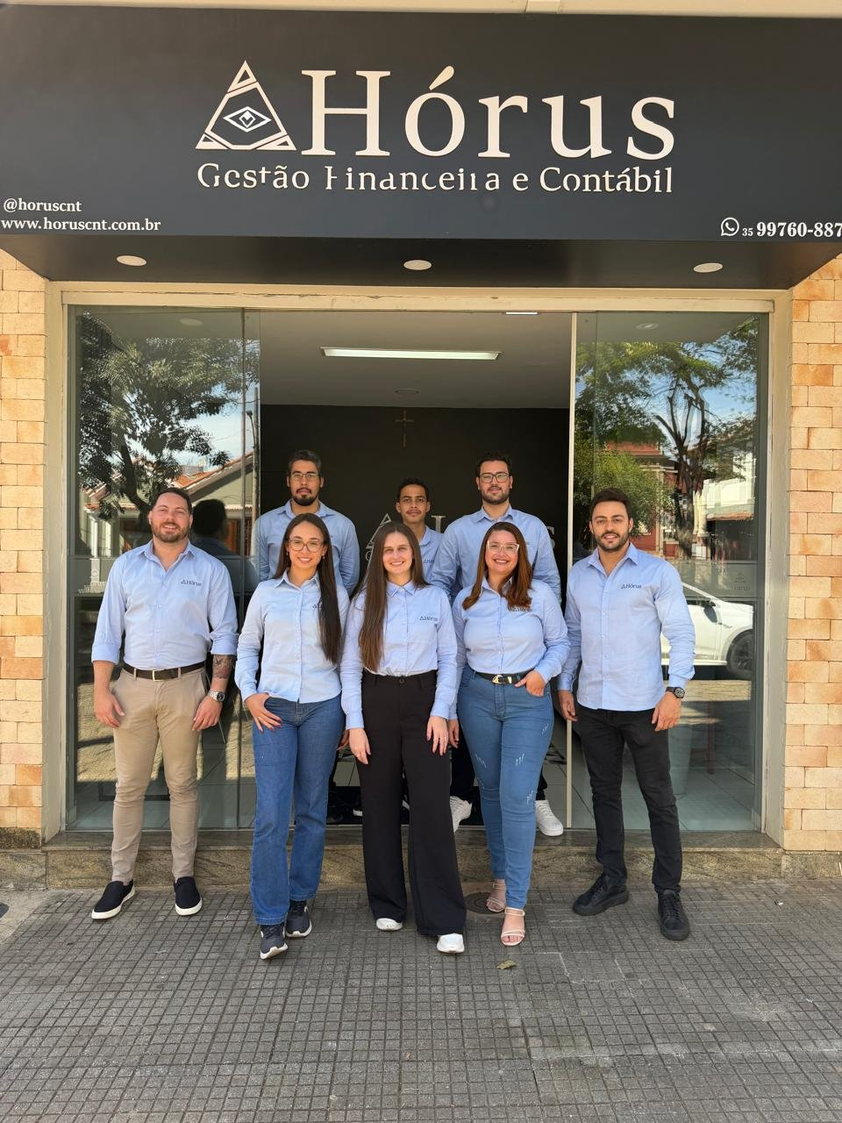
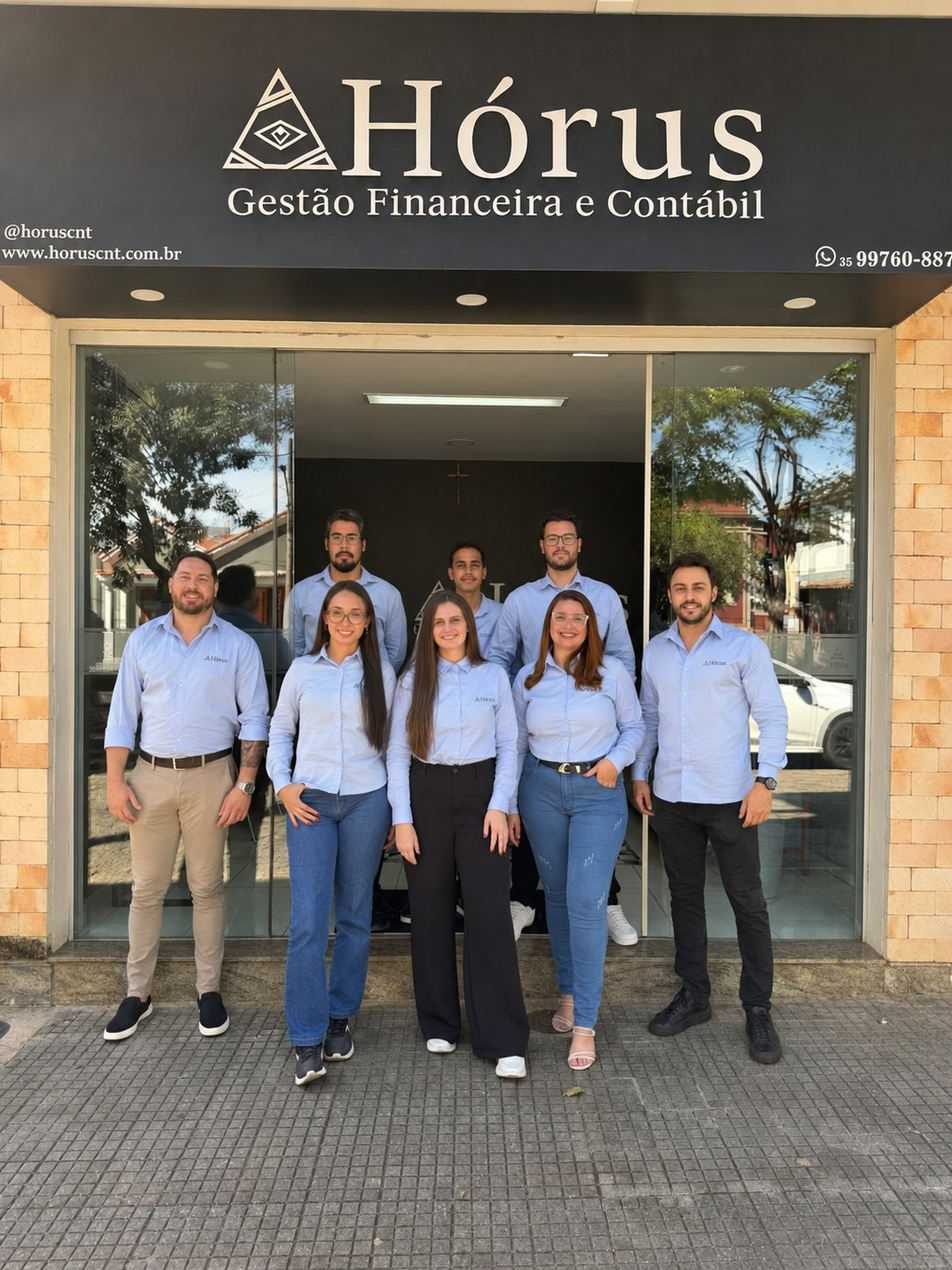
feat: usa a nova foto da equipe na fachada e fica só com três imagens
Troca a foto de destaque do time em frente ao letreiro e remove as duas
fachadas repetidas, deixando a nova foto com as duas do escritório.

diff --git a/HORUS.html b/HORUS.html
@@ -398,55 +398,33 @@
             </div>
 
             <div class="grid grid-cols-1 md:grid-cols-12 gap-4 md:gap-5">
-                <figure class="equipe-photo md:col-span-5 aspect-[3/4] md:aspect-auto md:h-full">
+                <figure class="equipe-photo md:col-span-7 aspect-[3/4]">
                     <button type="button" data-equipe-src="/public/equipe/fachada-01.webp" data-equipe-alt="Equipe da Hórus Gestão Financeira e Contábil posada na entrada do escritório, sob a placa da empresa." aria-label="Equipe da Hórus Gestão Financeira e Contábil posada na entrada do escritório, sob a placa da empresa.">
                         <picture>
-                            <source type="image/webp" srcset="/public/equipe/fachada-01-sm.webp 640w, /public/equipe/fachada-01.webp 960w" sizes="(min-width: 768px) 40vw, 100vw">
-                            <source type="image/jpeg" srcset="/public/equipe/fachada-01-sm.jpg 640w, /public/equipe/fachada-01.jpg 960w" sizes="(min-width: 768px) 40vw, 100vw">
-                            <img src="/public/equipe/fachada-01-sm.jpg" alt="Equipe da Hórus Gestão Financeira e Contábil posada na entrada do escritório, sob a placa da empresa." width="960" height="1280" loading="lazy" decoding="async">
+                            <source type="image/webp" srcset="/public/equipe/fachada-01-sm.webp 640w, /public/equipe/fachada-01.webp 1086w" sizes="(min-width: 768px) 58vw, 100vw">
+                            <source type="image/jpeg" srcset="/public/equipe/fachada-01-sm.jpg 640w, /public/equipe/fachada-01.jpg 1086w" sizes="(min-width: 768px) 58vw, 100vw">
+                            <img src="/public/equipe/fachada-01-sm.jpg" alt="Equipe da Hórus Gestão Financeira e Contábil posada na entrada do escritório, sob a placa da empresa." width="1086" height="1448" loading="lazy" decoding="async">
                         </picture>
                     </button>
                 </figure>
-                <div class="md:col-span-7 flex flex-col gap-4 md:gap-5">
-                    <figure class="equipe-photo aspect-[16/10] md:aspect-[16/9]">
-                        <button type="button" data-equipe-src="/public/equipe/escritorio-02.webp" data-equipe-alt="Equipe da Hórus trabalhando lado a lado no escritório, em mesas com computadores e o logo da empresa ao fundo." aria-label="Equipe da Hórus trabalhando lado a lado no escritório, em mesas com computadores e o logo da empresa ao fundo.">
+                <figure class="equipe-photo md:col-span-5 aspect-[3/4] md:aspect-auto md:h-full">
+                    <button type="button" data-equipe-src="/public/equipe/escritorio-01.webp" data-equipe-alt="Equipe da Hórus reunida em torno da mesa do escritório, com computadores e o logo da empresa na parede." aria-label="Equipe da Hórus reunida em torno da mesa do escritório, com computadores e o logo da empresa na parede.">
                         <picture>
-                            <source type="image/webp" srcset="/public/equipe/escritorio-02-sm.webp 640w, /public/equipe/escritorio-02.webp 1280w" sizes="(min-width: 768px) 55vw, 100vw">
-                            <source type="image/jpeg" srcset="/public/equipe/escritorio-02-sm.jpg 640w, /public/equipe/escritorio-02.jpg 1280w" sizes="(min-width: 768px) 55vw, 100vw">
-                            <img src="/public/equipe/escritorio-02-sm.jpg" alt="Equipe da Hórus trabalhando lado a lado no escritório, em mesas com computadores e o logo da empresa ao fundo." width="1280" height="853" loading="lazy" decoding="async">
-                        </picture>
-                    </button>
-                    </figure>
-                    <div class="grid grid-cols-3 gap-4 md:gap-5">
-                        <figure class="equipe-photo aspect-[3/4]">
-                            <button type="button" data-equipe-src="/public/equipe/escritorio-01.webp" data-equipe-alt="Equipe da Hórus reunida em torno da mesa do escritório, com computadores e o logo da empresa na parede." aria-label="Equipe da Hórus reunida em torno da mesa do escritório, com computadores e o logo da empresa na parede.">
-                        <picture>
-                            <source type="image/webp" srcset="/public/equipe/escritorio-01-sm.webp 640w, /public/equipe/escritorio-01.webp 853w" sizes="(min-width: 768px) 18vw, 33vw">
-                            <source type="image/jpeg" srcset="/public/equipe/escritorio-01-sm.jpg 640w, /public/equipe/escritorio-01.jpg 853w" sizes="(min-width: 768px) 18vw, 33vw">
+                            <source type="image/webp" srcset="/public/equipe/escritorio-01-sm.webp 640w, /public/equipe/escritorio-01.webp 853w" sizes="(min-width: 768px) 40vw, 100vw">
+                            <source type="image/jpeg" srcset="/public/equipe/escritorio-01-sm.jpg 640w, /public/equipe/escritorio-01.jpg 853w" sizes="(min-width: 768px) 40vw, 100vw">
                             <img src="/public/equipe/escritorio-01-sm.jpg" alt="Equipe da Hórus reunida em torno da mesa do escritório, com computadores e o logo da empresa na parede." width="853" height="1280" loading="lazy" decoding="async">
                         </picture>
                     </button>
-                        </figure>
-                        <figure class="equipe-photo aspect-[3/4]">
-                            <button type="button" data-equipe-src="/public/equipe/fachada-02.webp" data-equipe-alt="Equipe da Hórus reunida na porta de vidro do escritório, com a fachada da empresa ao fundo." aria-label="Equipe da Hórus reunida na porta de vidro do escritório, com a fachada da empresa ao fundo.">
+                </figure>
+                <figure class="equipe-photo md:col-span-12 aspect-[16/10] md:aspect-[21/9]">
+                    <button type="button" data-equipe-src="/public/equipe/escritorio-02.webp" data-equipe-alt="Equipe da Hórus trabalhando lado a lado no escritório, em mesas com computadores e o logo da empresa ao fundo." aria-label="Equipe da Hórus trabalhando lado a lado no escritório, em mesas com computadores e o logo da empresa ao fundo.">
                         <picture>
-                            <source type="image/webp" srcset="/public/equipe/fachada-02-sm.webp 640w, /public/equipe/fachada-02.webp 960w" sizes="(min-width: 768px) 18vw, 33vw">
-                            <source type="image/jpeg" srcset="/public/equipe/fachada-02-sm.jpg 640w, /public/equipe/fachada-02.jpg 960w" sizes="(min-width: 768px) 18vw, 33vw">
-                            <img src="/public/equipe/fachada-02-sm.jpg" alt="Equipe da Hórus reunida na porta de vidro do escritório, com a fachada da empresa ao fundo." width="960" height="1280" loading="lazy" decoding="async">
+                            <source type="image/webp" srcset="/public/equipe/escritorio-02-sm.webp 640w, /public/equipe/escritorio-02.webp 1280w" sizes="100vw">
+                            <source type="image/jpeg" srcset="/public/equipe/escritorio-02-sm.jpg 640w, /public/equipe/escritorio-02.jpg 1280w" sizes="100vw">
+                            <img src="/public/equipe/escritorio-02-sm.jpg" alt="Equipe da Hórus trabalhando lado a lado no escritório, em mesas com computadores e o logo da empresa ao fundo." width="1280" height="853" loading="lazy" decoding="async">
                         </picture>
                     </button>
-                        </figure>
-                        <figure class="equipe-photo aspect-[3/4]">
-                            <button type="button" data-equipe-src="/public/equipe/fachada-03.webp" data-equipe-alt="Time da Hórus na calçada, em frente à fachada do escritório." aria-label="Time da Hórus na calçada, em frente à fachada do escritório.">
-                        <picture>
-                            <source type="image/webp" srcset="/public/equipe/fachada-03-sm.webp 640w, /public/equipe/fachada-03.webp 960w" sizes="(min-width: 768px) 18vw, 33vw">
-                            <source type="image/jpeg" srcset="/public/equipe/fachada-03-sm.jpg 640w, /public/equipe/fachada-03.jpg 960w" sizes="(min-width: 768px) 18vw, 33vw">
-                            <img src="/public/equipe/fachada-03-sm.jpg" alt="Time da Hórus na calçada, em frente à fachada do escritório." width="960" height="1280" loading="lazy" decoding="async">
-                        </picture>
-                    </button>
-                        </figure>
-                    </div>
-                </div>
+                </figure>
             </div>
         </div>
     </section>

diff --git a/index.html b/index.html
@@ -398,55 +398,33 @@
             </div>
 
             <div class="grid grid-cols-1 md:grid-cols-12 gap-4 md:gap-5">
-                <figure class="equipe-photo md:col-span-5 aspect-[3/4] md:aspect-auto md:h-full">
+                <figure class="equipe-photo md:col-span-7 aspect-[3/4]">
                     <button type="button" data-equipe-src="/public/equipe/fachada-01.webp" data-equipe-alt="Equipe da Hórus Gestão Financeira e Contábil posada na entrada do escritório, sob a placa da empresa." aria-label="Equipe da Hórus Gestão Financeira e Contábil posada na entrada do escritório, sob a placa da empresa.">
                         <picture>
-                            <source type="image/webp" srcset="/public/equipe/fachada-01-sm.webp 640w, /public/equipe/fachada-01.webp 960w" sizes="(min-width: 768px) 40vw, 100vw">
-                            <source type="image/jpeg" srcset="/public/equipe/fachada-01-sm.jpg 640w, /public/equipe/fachada-01.jpg 960w" sizes="(min-width: 768px) 40vw, 100vw">
-                            <img src="/public/equipe/fachada-01-sm.jpg" alt="Equipe da Hórus Gestão Financeira e Contábil posada na entrada do escritório, sob a placa da empresa." width="960" height="1280" loading="lazy" decoding="async">
+                            <source type="image/webp" srcset="/public/equipe/fachada-01-sm.webp 640w, /public/equipe/fachada-01.webp 1086w" sizes="(min-width: 768px) 58vw, 100vw">
+                            <source type="image/jpeg" srcset="/public/equipe/fachada-01-sm.jpg 640w, /public/equipe/fachada-01.jpg 1086w" sizes="(min-width: 768px) 58vw, 100vw">
+                            <img src="/public/equipe/fachada-01-sm.jpg" alt="Equipe da Hórus Gestão Financeira e Contábil posada na entrada do escritório, sob a placa da empresa." width="1086" height="1448" loading="lazy" decoding="async">
                         </picture>
                     </button>
                 </figure>
-                <div class="md:col-span-7 flex flex-col gap-4 md:gap-5">
-                    <figure class="equipe-photo aspect-[16/10] md:aspect-[16/9]">
-                        <button type="button" data-equipe-src="/public/equipe/escritorio-02.webp" data-equipe-alt="Equipe da Hórus trabalhando lado a lado no escritório, em mesas com computadores e o logo da empresa ao fundo." aria-label="Equipe da Hórus trabalhando lado a lado no escritório, em mesas com computadores e o logo da empresa ao fundo.">
+                <figure class="equipe-photo md:col-span-5 aspect-[3/4] md:aspect-auto md:h-full">
+                    <button type="button" data-equipe-src="/public/equipe/escritorio-01.webp" data-equipe-alt="Equipe da Hórus reunida em torno da mesa do escritório, com computadores e o logo da empresa na parede." aria-label="Equipe da Hórus reunida em torno da mesa do escritório, com computadores e o logo da empresa na parede.">
                         <picture>
-                            <source type="image/webp" srcset="/public/equipe/escritorio-02-sm.webp 640w, /public/equipe/escritorio-02.webp 1280w" sizes="(min-width: 768px) 55vw, 100vw">
-                            <source type="image/jpeg" srcset="/public/equipe/escritorio-02-sm.jpg 640w, /public/equipe/escritorio-02.jpg 1280w" sizes="(min-width: 768px) 55vw, 100vw">
-                            <img src="/public/equipe/escritorio-02-sm.jpg" alt="Equipe da Hórus trabalhando lado a lado no escritório, em mesas com computadores e o logo da empresa ao fundo." width="1280" height="853" loading="lazy" decoding="async">
-                        </picture>
-                    </button>
-                    </figure>
-                    <div class="grid grid-cols-3 gap-4 md:gap-5">
-                        <figure class="equipe-photo aspect-[3/4]">
-                            <button type="button" data-equipe-src="/public/equipe/escritorio-01.webp" data-equipe-alt="Equipe da Hórus reunida em torno da mesa do escritório, com computadores e o logo da empresa na parede." aria-label="Equipe da Hórus reunida em torno da mesa do escritório, com computadores e o logo da empresa na parede.">
-                        <picture>
-                            <source type="image/webp" srcset="/public/equipe/escritorio-01-sm.webp 640w, /public/equipe/escritorio-01.webp 853w" sizes="(min-width: 768px) 18vw, 33vw">
-                            <source type="image/jpeg" srcset="/public/equipe/escritorio-01-sm.jpg 640w, /public/equipe/escritorio-01.jpg 853w" sizes="(min-width: 768px) 18vw, 33vw">
+                            <source type="image/webp" srcset="/public/equipe/escritorio-01-sm.webp 640w, /public/equipe/escritorio-01.webp 853w" sizes="(min-width: 768px) 40vw, 100vw">
+                            <source type="image/jpeg" srcset="/public/equipe/escritorio-01-sm.jpg 640w, /public/equipe/escritorio-01.jpg 853w" sizes="(min-width: 768px) 40vw, 100vw">
                             <img src="/public/equipe/escritorio-01-sm.jpg" alt="Equipe da Hórus reunida em torno da mesa do escritório, com computadores e o logo da empresa na parede." width="853" height="1280" loading="lazy" decoding="async">
                         </picture>
                     </button>
-                        </figure>
-                        <figure class="equipe-photo aspect-[3/4]">
-                            <button type="button" data-equipe-src="/public/equipe/fachada-02.webp" data-equipe-alt="Equipe da Hórus reunida na porta de vidro do escritório, com a fachada da empresa ao fundo." aria-label="Equipe da Hórus reunida na porta de vidro do escritório, com a fachada da empresa ao fundo.">
+                </figure>
+                <figure class="equipe-photo md:col-span-12 aspect-[16/10] md:aspect-[21/9]">
+                    <button type="button" data-equipe-src="/public/equipe/escritorio-02.webp" data-equipe-alt="Equipe da Hórus trabalhando lado a lado no escritório, em mesas com computadores e o logo da empresa ao fundo." aria-label="Equipe da Hórus trabalhando lado a lado no escritório, em mesas com computadores e o logo da empresa ao fundo.">
                         <picture>
-                            <source type="image/webp" srcset="/public/equipe/fachada-02-sm.webp 640w, /public/equipe/fachada-02.webp 960w" sizes="(min-width: 768px) 18vw, 33vw">
-                            <source type="image/jpeg" srcset="/public/equipe/fachada-02-sm.jpg 640w, /public/equipe/fachada-02.jpg 960w" sizes="(min-width: 768px) 18vw, 33vw">
-                            <img src="/public/equipe/fachada-02-sm.jpg" alt="Equipe da Hórus reunida na porta de vidro do escritório, com a fachada da empresa ao fundo." width="960" height="1280" loading="lazy" decoding="async">
+                            <source type="image/webp" srcset="/public/equipe/escritorio-02-sm.webp 640w, /public/equipe/escritorio-02.webp 1280w" sizes="100vw">
+                            <source type="image/jpeg" srcset="/public/equipe/escritorio-02-sm.jpg 640w, /public/equipe/escritorio-02.jpg 1280w" sizes="100vw">
+                            <img src="/public/equipe/escritorio-02-sm.jpg" alt="Equipe da Hórus trabalhando lado a lado no escritório, em mesas com computadores e o logo da empresa ao fundo." width="1280" height="853" loading="lazy" decoding="async">
                         </picture>
                     </button>
-                        </figure>
-                        <figure class="equipe-photo aspect-[3/4]">
-                            <button type="button" data-equipe-src="/public/equipe/fachada-03.webp" data-equipe-alt="Time da Hórus na calçada, em frente à fachada do escritório." aria-label="Time da Hórus na calçada, em frente à fachada do escritório.">
-                        <picture>
-                            <source type="image/webp" srcset="/public/equipe/fachada-03-sm.webp 640w, /public/equipe/fachada-03.webp 960w" sizes="(min-width: 768px) 18vw, 33vw">
-                            <source type="image/jpeg" srcset="/public/equipe/fachada-03-sm.jpg 640w, /public/equipe/fachada-03.jpg 960w" sizes="(min-width: 768px) 18vw, 33vw">
-                            <img src="/public/equipe/fachada-03-sm.jpg" alt="Time da Hórus na calçada, em frente à fachada do escritório." width="960" height="1280" loading="lazy" decoding="async">
-                        </picture>
-                    </button>
-                        </figure>
-                    </div>
-                </div>
+                </figure>
             </div>
         </div>
     </section>

diff --git a/dev.html b/dev.html
@@ -393,49 +393,31 @@
         <div class="max-w-7xl mx-auto px-6 lg:px-8">
             <p class="text-xs uppercase tracking-widest text-zinc-400 mb-3">A equipe</p>
             <h2 class="text-2xl md:text-3xl tracking-tighter font-light mb-8">Quem cuida da sua contabilidade</h2>
-            <div class="flex gap-3 md:gap-4 overflow-x-auto no-scrollbar snap-x snap-mandatory pb-1">
-                <figure class="equipe-photo w-40 md:w-52 h-48 md:h-56 shrink-0 snap-start">
+            <div class="grid grid-cols-1 sm:grid-cols-3 gap-3 md:gap-4">
+                <figure class="equipe-photo aspect-[3/4]">
                     <button type="button" data-equipe-src="/public/equipe/fachada-01.webp" data-equipe-alt="Equipe da Hórus Gestão Financeira e Contábil posada na entrada do escritório, sob a placa da empresa." aria-label="Equipe da Hórus Gestão Financeira e Contábil posada na entrada do escritório, sob a placa da empresa.">
                         <picture>
-                            <source type="image/webp" srcset="/public/equipe/fachada-01-sm.webp 640w, /public/equipe/fachada-01.webp 960w" sizes="(min-width: 768px) 13rem, 10rem">
-                            <source type="image/jpeg" srcset="/public/equipe/fachada-01-sm.jpg 640w, /public/equipe/fachada-01.jpg 960w" sizes="(min-width: 768px) 13rem, 10rem">
-                            <img src="/public/equipe/fachada-01-sm.jpg" alt="Equipe da Hórus Gestão Financeira e Contábil posada na entrada do escritório, sob a placa da empresa." width="960" height="1280" loading="lazy" decoding="async">
+                            <source type="image/webp" srcset="/public/equipe/fachada-01-sm.webp 640w, /public/equipe/fachada-01.webp 1086w" sizes="(min-width: 640px) 30vw, 100vw">
+                            <source type="image/jpeg" srcset="/public/equipe/fachada-01-sm.jpg 640w, /public/equipe/fachada-01.jpg 1086w" sizes="(min-width: 640px) 30vw, 100vw">
+                            <img src="/public/equipe/fachada-01-sm.jpg" alt="Equipe da Hórus Gestão Financeira e Contábil posada na entrada do escritório, sob a placa da empresa." width="1086" height="1448" loading="lazy" decoding="async">
                         </picture>
                     </button>
                 </figure>
-                <figure class="equipe-photo w-64 md:w-80 h-48 md:h-56 shrink-0 snap-start">
+                <figure class="equipe-photo aspect-[3/4] sm:aspect-[4/5]">
                     <button type="button" data-equipe-src="/public/equipe/escritorio-02.webp" data-equipe-alt="Equipe da Hórus trabalhando lado a lado no escritório, em mesas com computadores e o logo da empresa ao fundo." aria-label="Equipe da Hórus trabalhando lado a lado no escritório, em mesas com computadores e o logo da empresa ao fundo.">
                         <picture>
-                            <source type="image/webp" srcset="/public/equipe/escritorio-02-sm.webp 640w, /public/equipe/escritorio-02.webp 1280w" sizes="(min-width: 768px) 20rem, 16rem">
-                            <source type="image/jpeg" srcset="/public/equipe/escritorio-02-sm.jpg 640w, /public/equipe/escritorio-02.jpg 1280w" sizes="(min-width: 768px) 20rem, 16rem">
+                            <source type="image/webp" srcset="/public/equipe/escritorio-02-sm.webp 640w, /public/equipe/escritorio-02.webp 1280w" sizes="(min-width: 640px) 30vw, 100vw">
+                            <source type="image/jpeg" srcset="/public/equipe/escritorio-02-sm.jpg 640w, /public/equipe/escritorio-02.jpg 1280w" sizes="(min-width: 640px) 30vw, 100vw">
                             <img src="/public/equipe/escritorio-02-sm.jpg" alt="Equipe da Hórus trabalhando lado a lado no escritório, em mesas com computadores e o logo da empresa ao fundo." width="1280" height="853" loading="lazy" decoding="async">
                         </picture>
                     </button>
                 </figure>
-                <figure class="equipe-photo w-36 md:w-44 h-48 md:h-56 shrink-0 snap-start">
+                <figure class="equipe-photo aspect-[3/4]">
                     <button type="button" data-equipe-src="/public/equipe/escritorio-01.webp" data-equipe-alt="Equipe da Hórus reunida em torno da mesa do escritório, com computadores e o logo da empresa na parede." aria-label="Equipe da Hórus reunida em torno da mesa do escritório, com computadores e o logo da empresa na parede.">
                         <picture>
-                            <source type="image/webp" srcset="/public/equipe/escritorio-01-sm.webp 640w, /public/equipe/escritorio-01.webp 853w" sizes="(min-width: 768px) 11rem, 9rem">
-                            <source type="image/jpeg" srcset="/public/equipe/escritorio-01-sm.jpg 640w, /public/equipe/escritorio-01.jpg 853w" sizes="(min-width: 768px) 11rem, 9rem">
+                            <source type="image/webp" srcset="/public/equipe/escritorio-01-sm.webp 640w, /public/equipe/escritorio-01.webp 853w" sizes="(min-width: 640px) 30vw, 100vw">
+                            <source type="image/jpeg" srcset="/public/equipe/escritorio-01-sm.jpg 640w, /public/equipe/escritorio-01.jpg 853w" sizes="(min-width: 640px) 30vw, 100vw">
                             <img src="/public/equipe/escritorio-01-sm.jpg" alt="Equipe da Hórus reunida em torno da mesa do escritório, com computadores e o logo da empresa na parede." width="853" height="1280" loading="lazy" decoding="async">
-                        </picture>
-                    </button>
-                </figure>
-                <figure class="equipe-photo w-36 md:w-44 h-48 md:h-56 shrink-0 snap-start">
-                    <button type="button" data-equipe-src="/public/equipe/fachada-02.webp" data-equipe-alt="Equipe da Hórus reunida na porta de vidro do escritório, com a fachada da empresa ao fundo." aria-label="Equipe da Hórus reunida na porta de vidro do escritório, com a fachada da empresa ao fundo.">
-                        <picture>
-                            <source type="image/webp" srcset="/public/equipe/fachada-02-sm.webp 640w, /public/equipe/fachada-02.webp 960w" sizes="(min-width: 768px) 11rem, 9rem">
-                            <source type="image/jpeg" srcset="/public/equipe/fachada-02-sm.jpg 640w, /public/equipe/fachada-02.jpg 960w" sizes="(min-width: 768px) 11rem, 9rem">
-                            <img src="/public/equipe/fachada-02-sm.jpg" alt="Equipe da Hórus reunida na porta de vidro do escritório, com a fachada da empresa ao fundo." width="960" height="1280" loading="lazy" decoding="async">
-                        </picture>
-                    </button>
-                </figure>
-                <figure class="equipe-photo w-36 md:w-44 h-48 md:h-56 shrink-0 snap-start">
-                    <button type="button" data-equipe-src="/public/equipe/fachada-03.webp" data-equipe-alt="Time da Hórus na calçada, em frente à fachada do escritório." aria-label="Time da Hórus na calçada, em frente à fachada do escritório.">
-                        <picture>
-                            <source type="image/webp" srcset="/public/equipe/fachada-03-sm.webp 640w, /public/equipe/fachada-03.webp 960w" sizes="(min-width: 768px) 11rem, 9rem">
-                            <source type="image/jpeg" srcset="/public/equipe/fachada-03-sm.jpg 640w, /public/equipe/fachada-03.jpg 960w" sizes="(min-width: 768px) 11rem, 9rem">
-                            <img src="/public/equipe/fachada-03-sm.jpg" alt="Time da Hórus na calçada, em frente à fachada do escritório." width="960" height="1280" loading="lazy" decoding="async">
                         </picture>
                     </button>
                 </figure>

diff --git a/medicos.html b/medicos.html
@@ -392,49 +392,31 @@
         <div class="max-w-7xl mx-auto px-6 lg:px-8">
             <p class="text-xs uppercase tracking-widest text-zinc-400 mb-3">A equipe</p>
             <h2 class="text-2xl md:text-3xl tracking-tighter font-light mb-8">Quem cuida da sua contabilidade</h2>
-            <div class="flex gap-3 md:gap-4 overflow-x-auto no-scrollbar snap-x snap-mandatory pb-1">
-                <figure class="equipe-photo w-40 md:w-52 h-48 md:h-56 shrink-0 snap-start">
+            <div class="grid grid-cols-1 sm:grid-cols-3 gap-3 md:gap-4">
+                <figure class="equipe-photo aspect-[3/4]">
                     <button type="button" data-equipe-src="/public/equipe/fachada-01.webp" data-equipe-alt="Equipe da Hórus Gestão Financeira e Contábil posada na entrada do escritório, sob a placa da empresa." aria-label="Equipe da Hórus Gestão Financeira e Contábil posada na entrada do escritório, sob a placa da empresa.">
                         <picture>
-                            <source type="image/webp" srcset="/public/equipe/fachada-01-sm.webp 640w, /public/equipe/fachada-01.webp 960w" sizes="(min-width: 768px) 13rem, 10rem">
-                            <source type="image/jpeg" srcset="/public/equipe/fachada-01-sm.jpg 640w, /public/equipe/fachada-01.jpg 960w" sizes="(min-width: 768px) 13rem, 10rem">
-                            <img src="/public/equipe/fachada-01-sm.jpg" alt="Equipe da Hórus Gestão Financeira e Contábil posada na entrada do escritório, sob a placa da empresa." width="960" height="1280" loading="lazy" decoding="async">
+                            <source type="image/webp" srcset="/public/equipe/fachada-01-sm.webp 640w, /public/equipe/fachada-01.webp 1086w" sizes="(min-width: 640px) 30vw, 100vw">
+                            <source type="image/jpeg" srcset="/public/equipe/fachada-01-sm.jpg 640w, /public/equipe/fachada-01.jpg 1086w" sizes="(min-width: 640px) 30vw, 100vw">
+                            <img src="/public/equipe/fachada-01-sm.jpg" alt="Equipe da Hórus Gestão Financeira e Contábil posada na entrada do escritório, sob a placa da empresa." width="1086" height="1448" loading="lazy" decoding="async">
                         </picture>
                     </button>
                 </figure>
-                <figure class="equipe-photo w-64 md:w-80 h-48 md:h-56 shrink-0 snap-start">
+                <figure class="equipe-photo aspect-[3/4] sm:aspect-[4/5]">
                     <button type="button" data-equipe-src="/public/equipe/escritorio-02.webp" data-equipe-alt="Equipe da Hórus trabalhando lado a lado no escritório, em mesas com computadores e o logo da empresa ao fundo." aria-label="Equipe da Hórus trabalhando lado a lado no escritório, em mesas com computadores e o logo da empresa ao fundo.">
                         <picture>
-                            <source type="image/webp" srcset="/public/equipe/escritorio-02-sm.webp 640w, /public/equipe/escritorio-02.webp 1280w" sizes="(min-width: 768px) 20rem, 16rem">
-                            <source type="image/jpeg" srcset="/public/equipe/escritorio-02-sm.jpg 640w, /public/equipe/escritorio-02.jpg 1280w" sizes="(min-width: 768px) 20rem, 16rem">
+                            <source type="image/webp" srcset="/public/equipe/escritorio-02-sm.webp 640w, /public/equipe/escritorio-02.webp 1280w" sizes="(min-width: 640px) 30vw, 100vw">
+                            <source type="image/jpeg" srcset="/public/equipe/escritorio-02-sm.jpg 640w, /public/equipe/escritorio-02.jpg 1280w" sizes="(min-width: 640px) 30vw, 100vw">
                             <img src="/public/equipe/escritorio-02-sm.jpg" alt="Equipe da Hórus trabalhando lado a lado no escritório, em mesas com computadores e o logo da empresa ao fundo." width="1280" height="853" loading="lazy" decoding="async">
                         </picture>
                     </button>
                 </figure>
-                <figure class="equipe-photo w-36 md:w-44 h-48 md:h-56 shrink-0 snap-start">
+                <figure class="equipe-photo aspect-[3/4]">
                     <button type="button" data-equipe-src="/public/equipe/escritorio-01.webp" data-equipe-alt="Equipe da Hórus reunida em torno da mesa do escritório, com computadores e o logo da empresa na parede." aria-label="Equipe da Hórus reunida em torno da mesa do escritório, com computadores e o logo da empresa na parede.">
                         <picture>
-                            <source type="image/webp" srcset="/public/equipe/escritorio-01-sm.webp 640w, /public/equipe/escritorio-01.webp 853w" sizes="(min-width: 768px) 11rem, 9rem">
-                            <source type="image/jpeg" srcset="/public/equipe/escritorio-01-sm.jpg 640w, /public/equipe/escritorio-01.jpg 853w" sizes="(min-width: 768px) 11rem, 9rem">
+                            <source type="image/webp" srcset="/public/equipe/escritorio-01-sm.webp 640w, /public/equipe/escritorio-01.webp 853w" sizes="(min-width: 640px) 30vw, 100vw">
+                            <source type="image/jpeg" srcset="/public/equipe/escritorio-01-sm.jpg 640w, /public/equipe/escritorio-01.jpg 853w" sizes="(min-width: 640px) 30vw, 100vw">
                             <img src="/public/equipe/escritorio-01-sm.jpg" alt="Equipe da Hórus reunida em torno da mesa do escritório, com computadores e o logo da empresa na parede." width="853" height="1280" loading="lazy" decoding="async">
-                        </picture>
-                    </button>
-                </figure>
-                <figure class="equipe-photo w-36 md:w-44 h-48 md:h-56 shrink-0 snap-start">
-                    <button type="button" data-equipe-src="/public/equipe/fachada-02.webp" data-equipe-alt="Equipe da Hórus reunida na porta de vidro do escritório, com a fachada da empresa ao fundo." aria-label="Equipe da Hórus reunida na porta de vidro do escritório, com a fachada da empresa ao fundo.">
-                        <picture>
-                            <source type="image/webp" srcset="/public/equipe/fachada-02-sm.webp 640w, /public/equipe/fachada-02.webp 960w" sizes="(min-width: 768px) 11rem, 9rem">
-                            <source type="image/jpeg" srcset="/public/equipe/fachada-02-sm.jpg 640w, /public/equipe/fachada-02.jpg 960w" sizes="(min-width: 768px) 11rem, 9rem">
-                            <img src="/public/equipe/fachada-02-sm.jpg" alt="Equipe da Hórus reunida na porta de vidro do escritório, com a fachada da empresa ao fundo." width="960" height="1280" loading="lazy" decoding="async">
-                        </picture>
-                    </button>
-                </figure>
-                <figure class="equipe-photo w-36 md:w-44 h-48 md:h-56 shrink-0 snap-start">
-                    <button type="button" data-equipe-src="/public/equipe/fachada-03.webp" data-equipe-alt="Time da Hórus na calçada, em frente à fachada do escritório." aria-label="Time da Hórus na calçada, em frente à fachada do escritório.">
-                        <picture>
-                            <source type="image/webp" srcset="/public/equipe/fachada-03-sm.webp 640w, /public/equipe/fachada-03.webp 960w" sizes="(min-width: 768px) 11rem, 9rem">
-                            <source type="image/jpeg" srcset="/public/equipe/fachada-03-sm.jpg 640w, /public/equipe/fachada-03.jpg 960w" sizes="(min-width: 768px) 11rem, 9rem">
-                            <img src="/public/equipe/fachada-03-sm.jpg" alt="Time da Hórus na calçada, em frente à fachada do escritório." width="960" height="1280" loading="lazy" decoding="async">
                         </picture>
                     </button>
                 </figure>
